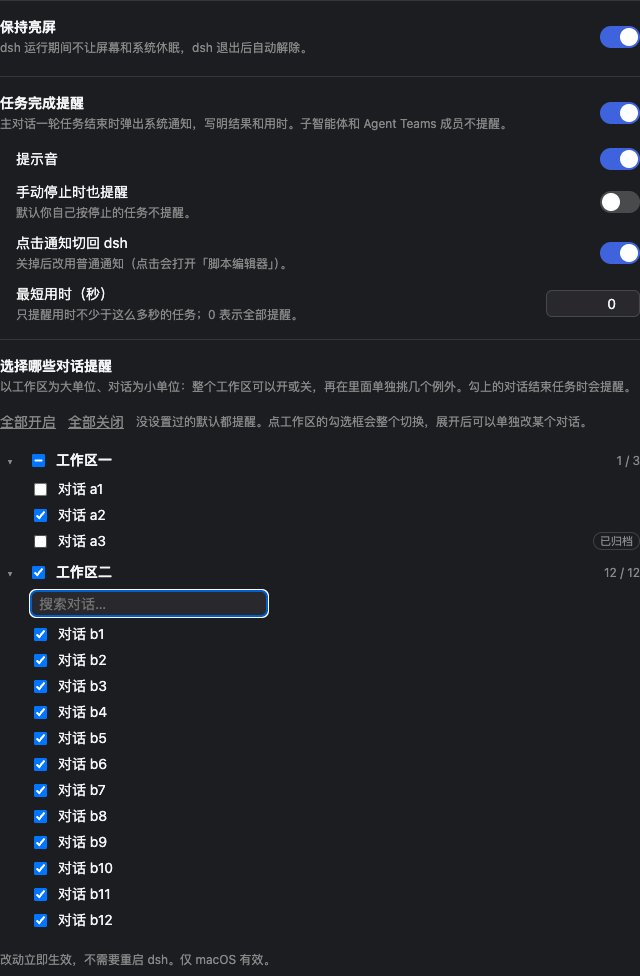
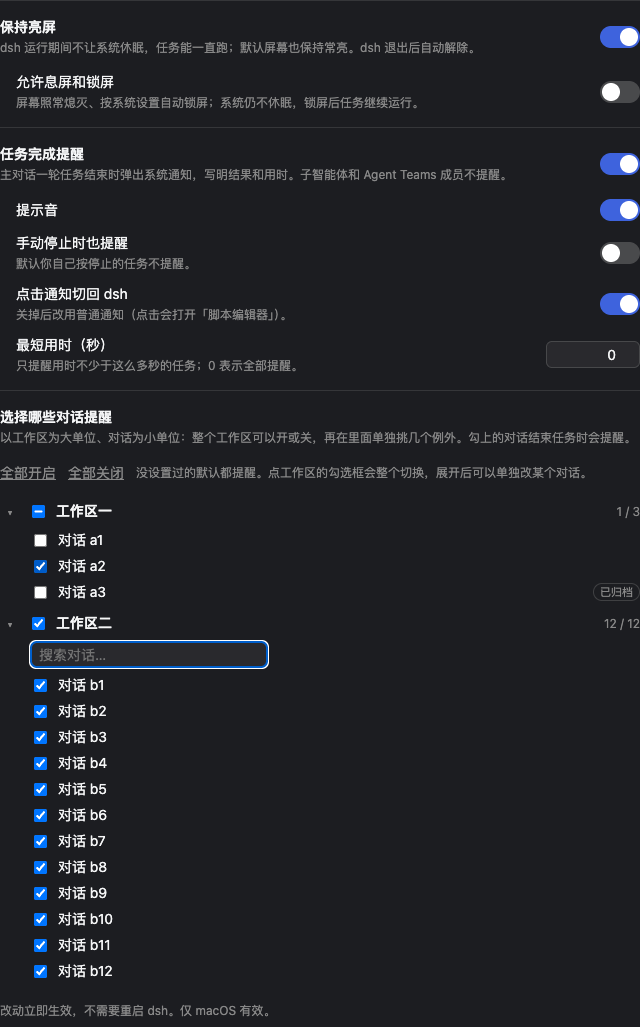
0.6.0: let the display sleep and the screen lock while keeping tasks running
New switch 「允许息屏和锁屏」 (keepAwake.allowDisplaySleep, off by default):
on, caffeinate runs with -i only, so the display sleeps and the screen
locks as System Settings say while the system stays awake; off, it keeps
-di as before. Live: caffeinate restarts with the other flags within a
few seconds.

diff --git a/client/client.js b/client/client.js
@@ -265,7 +265,9 @@ var zh = {
   unavailable: "设置暂时不可用（插件还没有加载，或当前配置不可编辑）。",
   readOnly: "当前配置只读，开关不可修改。",
   "keepAwake.title": "保持亮屏",
-  "keepAwake.hint": "dsh 运行期间不让屏幕和系统休眠，dsh 退出后自动解除。",
+  "keepAwake.hint": "dsh 运行期间不让系统休眠，任务能一直跑；默认屏幕也保持常亮。dsh 退出后自动解除。",
+  "keepAwake.allowDisplaySleep": "允许息屏和锁屏",
+  "keepAwake.allowDisplaySleepHint": "屏幕照常熄灭、按系统设置自动锁屏；系统仍不休眠，锁屏后任务继续运行。",
   "taskNotify.title": "任务完成提醒",
   "taskNotify.hint": "主对话一轮任务结束时弹出系统通知，写明结果和用时。子智能体和 Agent Teams 成员不提醒。",
   "taskNotify.sound": "提示音",
@@ -297,7 +299,9 @@ var en = {
   unavailable: "Settings are not available yet (the plugin has not loaded, or its config is not editable).",
   readOnly: "This configuration is read-only; the switches cannot be changed.",
   "keepAwake.title": "Keep awake",
-  "keepAwake.hint": "Stops the display and system from sleeping while dsh runs; released when dsh quits.",
+  "keepAwake.hint": "Stops the system from sleeping while dsh runs, so tasks keep going; by default the display stays on too. Released when dsh quits.",
+  "keepAwake.allowDisplaySleep": "Let the display sleep and the screen lock",
+  "keepAwake.allowDisplaySleepHint": "The display sleeps and the screen locks as System Settings say; the system still stays awake, so tasks keep running behind the lock.",
   "taskNotify.title": "Task-finished notification",
   "taskNotify.hint": "A system notification when a top-level conversation finishes its turn, with the outcome and duration. Subagents and Agent Teams members never notify.",
   "taskNotify.sound": "Sound",
@@ -482,17 +486,30 @@ function ToolkitConfig({ t, view, form }) {
   const notifyOn = read("taskNotify", "enabled", true) !== false;
   return /* @__PURE__ */ (0, import_jsx_runtime2.jsxs)("div", { style: styles2.page, "data-small-toolkit-config": "", children: [
     writable ? null : /* @__PURE__ */ (0, import_jsx_runtime2.jsx)("div", { style: styles2.note, children: t("readOnly") }),
-    /* @__PURE__ */ (0, import_jsx_runtime2.jsx)("div", { style: styles2.group, children: /* @__PURE__ */ (0, import_jsx_runtime2.jsx)(Row, { title: t("keepAwake.title"), hint: t("keepAwake.hint"), children: /* @__PURE__ */ (0, import_jsx_runtime2.jsx)(
-      Switch,
-      {
-        label: t("keepAwake.title"),
-        checked: read("keepAwake", "enabled", true) !== false,
-        disabled: !writable,
-        onChange: (value) => {
-          void write("keepAwake", "enabled", value);
+    /* @__PURE__ */ (0, import_jsx_runtime2.jsxs)("div", { style: styles2.group, children: [
+      /* @__PURE__ */ (0, import_jsx_runtime2.jsx)(Row, { title: t("keepAwake.title"), hint: t("keepAwake.hint"), children: /* @__PURE__ */ (0, import_jsx_runtime2.jsx)(
+        Switch,
+        {
+          label: t("keepAwake.title"),
+          checked: read("keepAwake", "enabled", true) !== false,
+          disabled: !writable,
+          onChange: (value) => {
+            void write("keepAwake", "enabled", value);
+          }
         }
-      }
-    ) }) }),
+      ) }),
+      /* @__PURE__ */ (0, import_jsx_runtime2.jsx)(Row, { sub: true, title: t("keepAwake.allowDisplaySleep"), hint: t("keepAwake.allowDisplaySleepHint"), children: /* @__PURE__ */ (0, import_jsx_runtime2.jsx)(
+        Switch,
+        {
+          label: t("keepAwake.allowDisplaySleep"),
+          checked: read("keepAwake", "allowDisplaySleep", false) === true,
+          disabled: !writable || read("keepAwake", "enabled", true) === false,
+          onChange: (value) => {
+            void write("keepAwake", "allowDisplaySleep", value);
+          }
+        }
+      ) })
+    ] }),
     /* @__PURE__ */ (0, import_jsx_runtime2.jsxs)("div", { style: styles2.group, children: [
       /* @__PURE__ */ (0, import_jsx_runtime2.jsx)(Row, { title: t("taskNotify.title"), hint: t("taskNotify.hint"), children: /* @__PURE__ */ (0, import_jsx_runtime2.jsx)(
         Switch,

diff --git a/lib/features/keep-awake.js b/lib/features/keep-awake.js
@@ -1,41 +1,60 @@
 import { spawn } from 'node:child_process'
+import { plain } from '../live.js'
 
-/** How often the on/off switch is re-read. */
+/** How often the switches are re-read. */
 const POLL_MS = 3000
 
-/** Keep the Mac display and system awake while DSH runs. */
+/** Keep the Mac awake while DSH runs (the display too, unless allowed to sleep). */
 export const id = 'keepAwake'
-export const defaults = { enabled: true }
+export const defaults = { enabled: true, allowDisplaySleep: false }
 
-// caffeinate -d: no display sleep (also holds off the screensaver and the lock that
-// follows); -i: no idle system sleep; -w: exit when the host exits, so a crash never
-// leaves the assertion behind.
-export function apply(ctx, _config, deps = {}) {
+/**
+ * The caffeinate flags for a setting.
+ * -i: no idle system sleep, so running tasks keep going (also behind a locked screen);
+ * -d: no display sleep either, which also holds off the screensaver and the lock that
+ *     follows; left out when the display may sleep and the screen lock normally;
+ * -w: exit when the host exits, so a crash never leaves the assertion behind.
+ * @param allowDisplaySleep - whether the display may sleep (and the screen lock).
+ * @returns the arguments before `-w`.
+ */
+export function flags(allowDisplaySleep) {
+  return allowDisplaySleep ? ['-i'] : ['-di']
+}
+
+export function apply(ctx, config, deps = {}) {
   const platform = deps.platform ?? process.platform
   if (platform !== 'darwin') return
   const run = deps.spawn ?? spawn
   const enabled = deps.enabled ?? (() => true)
+  const allowDisplaySleep = deps.allowDisplaySleep ?? (() => plain(config ?? {}).allowDisplaySleep === true)
   const pollMs = deps.pollMs ?? POLL_MS
   ctx.effect(() => {
     let child
-    // The switch is re-read on a timer: turning keepAwake off in settings.json
-    // releases the assertion, turning it back on takes it again.
+    let mode
+    const stop = () => {
+      child?.kill('SIGTERM')
+      child = undefined
+      mode = undefined
+    }
+    // The switches are re-read on a timer: turning keepAwake off releases the
+    // assertion, turning it on takes it again, and changing whether the display
+    // may sleep restarts caffeinate with the other flags.
     const sync = () => {
       const want = enabled()
-      if (want && child === undefined) {
-        child = run('/usr/bin/caffeinate', ['-di', '-w', String(process.pid)], { stdio: 'ignore' })
-        child.on('error', () => {})
-      } else if (!want && child !== undefined) {
-        child.kill('SIGTERM')
-        child = undefined
-      }
+      const wanted = want ? flags(allowDisplaySleep()).join(' ') : undefined
+      if (wanted === mode) return
+      stop()
+      if (wanted === undefined) return
+      child = run('/usr/bin/caffeinate', [...flags(allowDisplaySleep()), '-w', String(process.pid)], { stdio: 'ignore' })
+      child.on('error', () => {})
+      mode = wanted
     }
     sync()
     const timer = setInterval(sync, pollMs)
     timer.unref?.()
     return () => {
       clearInterval(timer)
-      child?.kill('SIGTERM')
+      stop()
     }
   })
 }

diff --git a/test/features.test.js b/test/features.test.js
@@ -244,6 +244,44 @@ test('keepAwake takes and releases caffeinate as the switch changes', async () =
   assert.equal(started[1].killed, true)
 })
 
+test('keepAwake keeps the display on by default; allowing display sleep drops -d, switched live', async () => {
+  const ctx = fakeCtx()
+  const started = []
+  let allow = false
+  keepAwake.apply(ctx, keepAwake.defaults, {
+    platform: 'darwin',
+    pollMs: 10,
+    enabled: () => true,
+    allowDisplaySleep: () => allow,
+    spawn: (file, args) => { const child = { file, args, killed: false, on() {}, kill() { this.killed = true } }; started.push(child); return child },
+  })
+  assert.equal(started.length, 1)
+  assert.equal(started[0].file, '/usr/bin/caffeinate')
+  assert.deepEqual(started[0].args, ['-di', '-w', String(process.pid)])
+  allow = true
+  await new Promise((resolve) => setTimeout(resolve, 40))
+  assert.equal(started[0].killed, true)
+  assert.equal(started.length, 2)
+  assert.deepEqual(started[1].args, ['-i', '-w', String(process.pid)])
+  // Nothing changes while the setting stays the same.
+  await new Promise((resolve) => setTimeout(resolve, 40))
+  assert.equal(started.length, 2)
+  ctx.effects[0]()
+  assert.equal(started[1].killed, true)
+})
+
+test('keepAwake reads allowDisplaySleep from its (live) config', () => {
+  const ctx = fakeCtx()
+  const started = []
+  const spawnFake = (file, args) => { const child = { args, on() {}, kill() {} }; started.push(child); return child }
+  keepAwake.apply(ctx, { enabled: true, allowDisplaySleep: { get: () => true } }, { platform: 'darwin', pollMs: 1e6, enabled: () => true, spawn: spawnFake })
+  assert.deepEqual(started[0].args.slice(0, 1), ['-i'])
+  ctx.effects[0]()
+  keepAwake.apply(ctx, { enabled: true }, { platform: 'darwin', pollMs: 1e6, enabled: () => true, spawn: spawnFake })
+  assert.deepEqual(started[1].args.slice(0, 1), ['-di'])
+  ctx.effects[1]()
+})
+
 test('the helper is compiled through xcrun, so the Xcode toolchain finds its SDK', async () => {
   const calls = []
   const run = async (file, args) => {
@@ -323,12 +361,14 @@ test('Config marks the switches volatile; parsing yields live references with th
   const nodes = Object.values(Config.toJSON().refs)
   const byText = (text) => nodes.find((node) => node.meta?.description?.includes(text))
   assert.equal(byText('保持亮屏').meta.volatile, true)
+  assert.equal(byText('允许息屏和锁屏').meta.volatile, true)
   assert.equal(byText('任务完成提醒').meta.volatile, true)
   assert.equal(byText('提示音').meta.volatile, true)
   assert.ok(!byText('哪些结束方式').meta.volatile)
   const parsed = Config({})
   assert.equal(isRef(parsed.keepAwake.enabled), true)
   assert.equal(plain(parsed).keepAwake.enabled, true)
+  assert.equal(plain(parsed).keepAwake.allowDisplaySleep, false)
   assert.equal(plain(parsed).taskNotify.minDurationSec, 0)
   assert.deepEqual(plain(parsed).taskNotify.notifyOn, ['completed', 'error', 'blocked', 'max-tokens'])
 })

diff --git a/src/client/locale.js b/src/client/locale.js
@@ -4,7 +4,9 @@ export const zh = {
   unavailable: '设置暂时不可用（插件还没有加载，或当前配置不可编辑）。',
   readOnly: '当前配置只读，开关不可修改。',
   'keepAwake.title': '保持亮屏',
-  'keepAwake.hint': 'dsh 运行期间不让屏幕和系统休眠，dsh 退出后自动解除。',
+  'keepAwake.hint': 'dsh 运行期间不让系统休眠，任务能一直跑；默认屏幕也保持常亮。dsh 退出后自动解除。',
+  'keepAwake.allowDisplaySleep': '允许息屏和锁屏',
+  'keepAwake.allowDisplaySleepHint': '屏幕照常熄灭、按系统设置自动锁屏；系统仍不休眠，锁屏后任务继续运行。',
   'taskNotify.title': '任务完成提醒',
   'taskNotify.hint': '主对话一轮任务结束时弹出系统通知，写明结果和用时。子智能体和 Agent Teams 成员不提醒。',
   'taskNotify.sound': '提示音',
@@ -37,7 +39,9 @@ export const en = {
   unavailable: 'Settings are not available yet (the plugin has not loaded, or its config is not editable).',
   readOnly: 'This configuration is read-only; the switches cannot be changed.',
   'keepAwake.title': 'Keep awake',
-  'keepAwake.hint': 'Stops the display and system from sleeping while dsh runs; released when dsh quits.',
+  'keepAwake.hint': 'Stops the system from sleeping while dsh runs, so tasks keep going; by default the display stays on too. Released when dsh quits.',
+  'keepAwake.allowDisplaySleep': 'Let the display sleep and the screen lock',
+  'keepAwake.allowDisplaySleepHint': 'The display sleeps and the screen locks as System Settings say; the system still stays awake, so tasks keep running behind the lock.',
   'taskNotify.title': 'Task-finished notification',
   'taskNotify.hint': 'A system notification when a top-level conversation finishes its turn, with the outcome and duration. Subagents and Agent Teams members never notify.',
   'taskNotify.sound': 'Sound',

diff --git a/src/client/index.jsx b/src/client/index.jsx
@@ -159,6 +159,14 @@ export function ToolkitConfig({ t, view, form }) {
             onChange={(value) => { void write('keepAwake', 'enabled', value) }}
           />
         </Row>
+        <Row sub title={t('keepAwake.allowDisplaySleep')} hint={t('keepAwake.allowDisplaySleepHint')}>
+          <Switch
+            label={t('keepAwake.allowDisplaySleep')}
+            checked={read('keepAwake', 'allowDisplaySleep', false) === true}
+            disabled={!writable || read('keepAwake', 'enabled', true) === false}
+            onChange={(value) => { void write('keepAwake', 'allowDisplaySleep', value) }}
+          />
+        </Row>
       </div>
       <div style={styles.group}>
         <Row title={t('taskNotify.title')} hint={t('taskNotify.hint')}>

diff --git a/lib/config.js b/lib/config.js
@@ -10,6 +10,8 @@ export const Config = z.object({
   keepAwake: z.object({
     enabled: z.boolean().default(true)
       .description('保持亮屏：dsh 运行期间不让屏幕和系统休眠').volatile(),
+    allowDisplaySleep: z.boolean().default(false)
+      .description('允许息屏和锁屏：屏幕照常熄灭、按系统设置自动锁屏，系统不休眠，任务在锁屏后继续运行').volatile(),
   }),
   taskNotify: z.object({
     enabled: z.boolean().default(true)

diff --git a/CHANGELOG.md b/CHANGELOG.md
@@ -1,5 +1,9 @@
 # Changelog
 
+## 0.6.0 — 2026-11-23
+
+- Keep awake: a new switch 「允许息屏和锁屏」 (`keepAwake.allowDisplaySleep`, off by default). On, caffeinate runs with `-i` only: the display sleeps and the screen locks as System Settings say, while the system stays awake and tasks keep running behind the lock. Off, it keeps `-di` as before (the display stays on, so the screensaver and the automatic lock never start). The switch is live: caffeinate restarts with the other flags within a few seconds; it is greyed out while 保持亮屏 is off.
+
 ## 0.5.1 — 2026-11-06
 
 - The browser half now leaves a breadcrumb (`~/Library/Application Support/dsh-small-toolkit/client-boot.log`: `apply`, `registered`, `page-shown`) so a missing settings page can be told apart from a page that never loaded.
